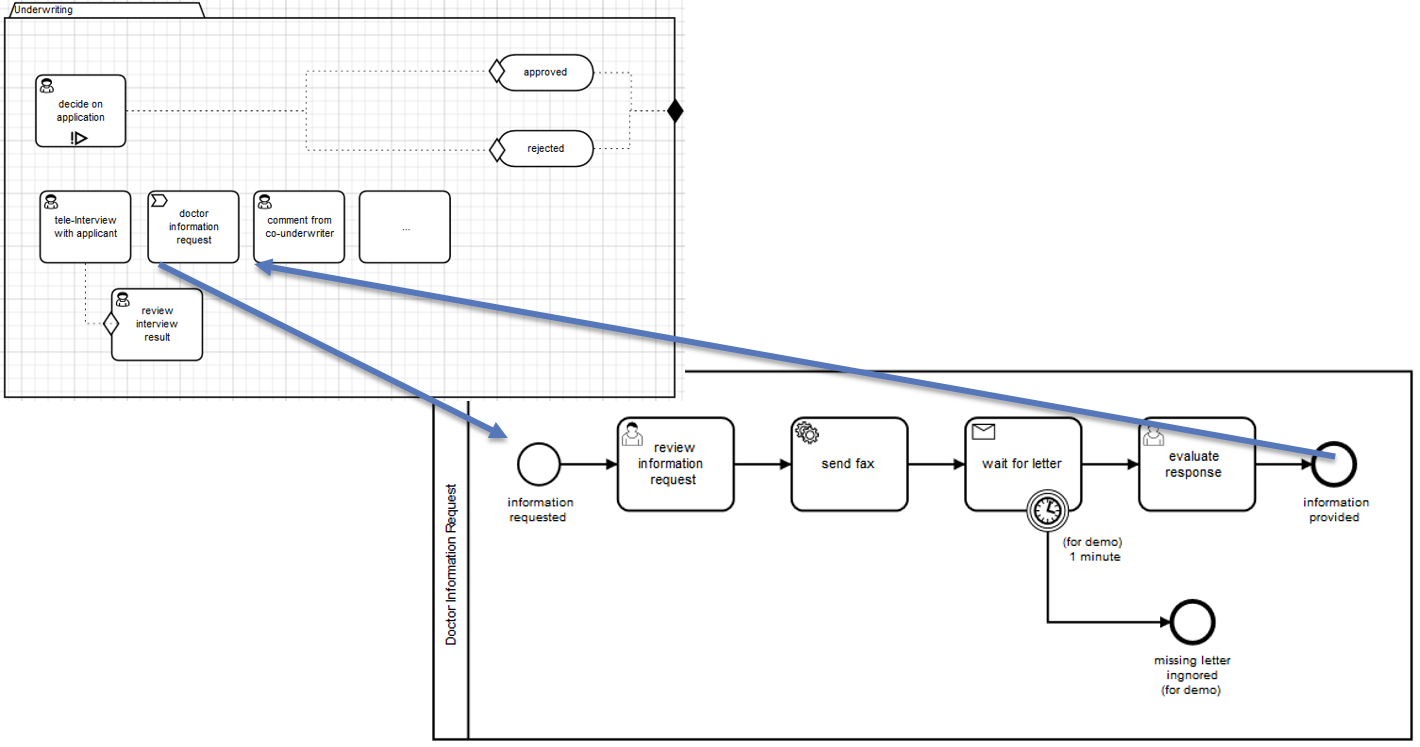
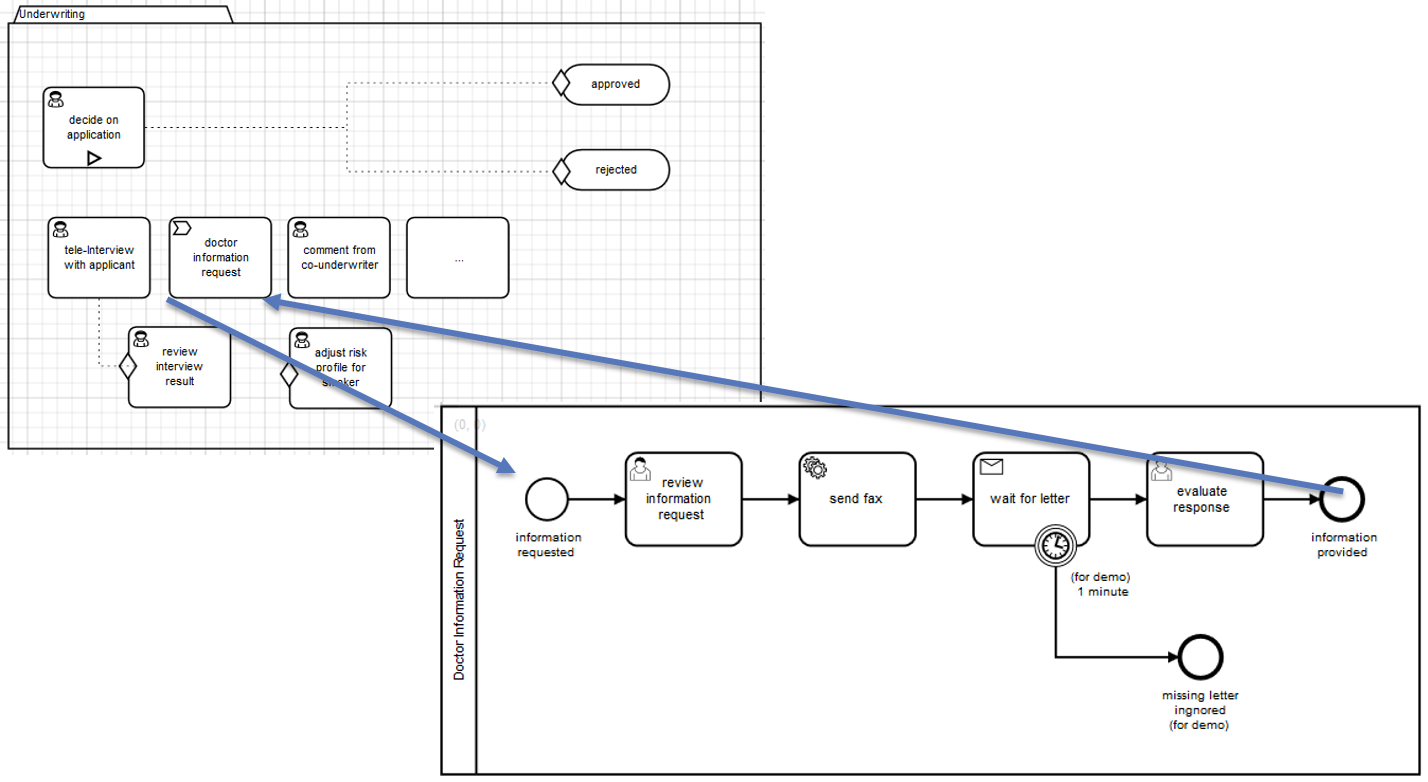
adjusted case definition to version without exit criteria (not used in example)

Changed region(s): [[0.0, 0.0, 1.0, 1.0], [0.3408, 0.0616, 0.4958, 0.2463], [0.7437, 0.8005, 0.8676, 0.9545]]

diff --git a/one-time-examples/2015-01-webinars/webinar-cmmn/README.md b/one-time-examples/2015-01-webinars/webinar-cmmn/README.md
@@ -15,7 +15,9 @@ Important note: Requires JSF - does not run on Tomcat!
 Show me the important parts!
 ----------------------------
 
-The BPMN process starts the underwriting. It implements all structured activities and calls the CMMN case when the
+![CMMN Case](docs/case.png)
+
+The BPMN process starts the underwriting. It implements all structured activities and calls the more CMMN case when the
 unstructured phase of the real underwriting from a clerk starts: 
 
 ![BPMN Process and CMMN Case](docs/process-and-case.png)
@@ -34,6 +36,10 @@ the [CMMN Lifecycle in our docs](http://docs.camunda.org/latest/api-references/c
 And as a last remark I want to point out that it is already built-in the CMMN to call processes from a case - no workaround necessary:
 
 ![BPMN Process](docs/case-and-process.png)
+
+This allows you to use the right tool for the right job - BPMN for structured process parts and CMMN for unstructured ones:
+
+![BPMN Process](docs/structured-vs-unstructured.png)
 
 How to use it?
 --------------
